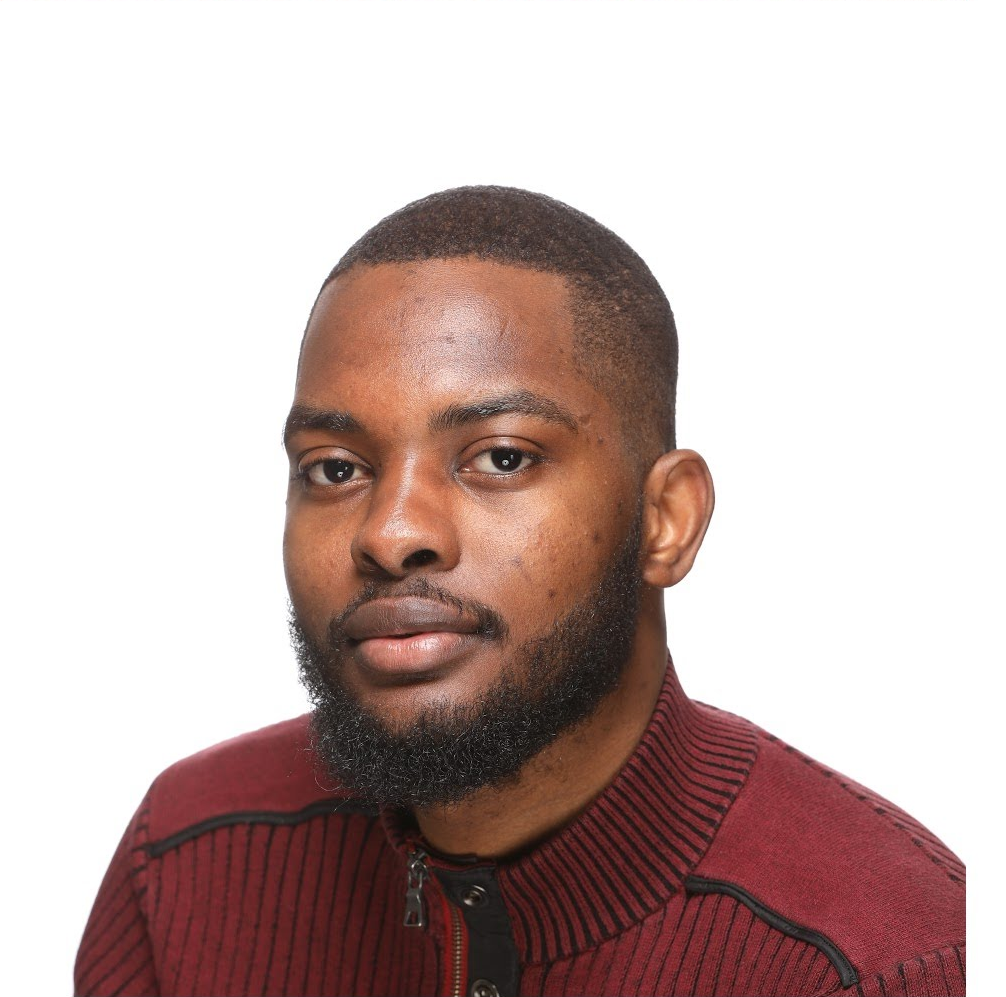
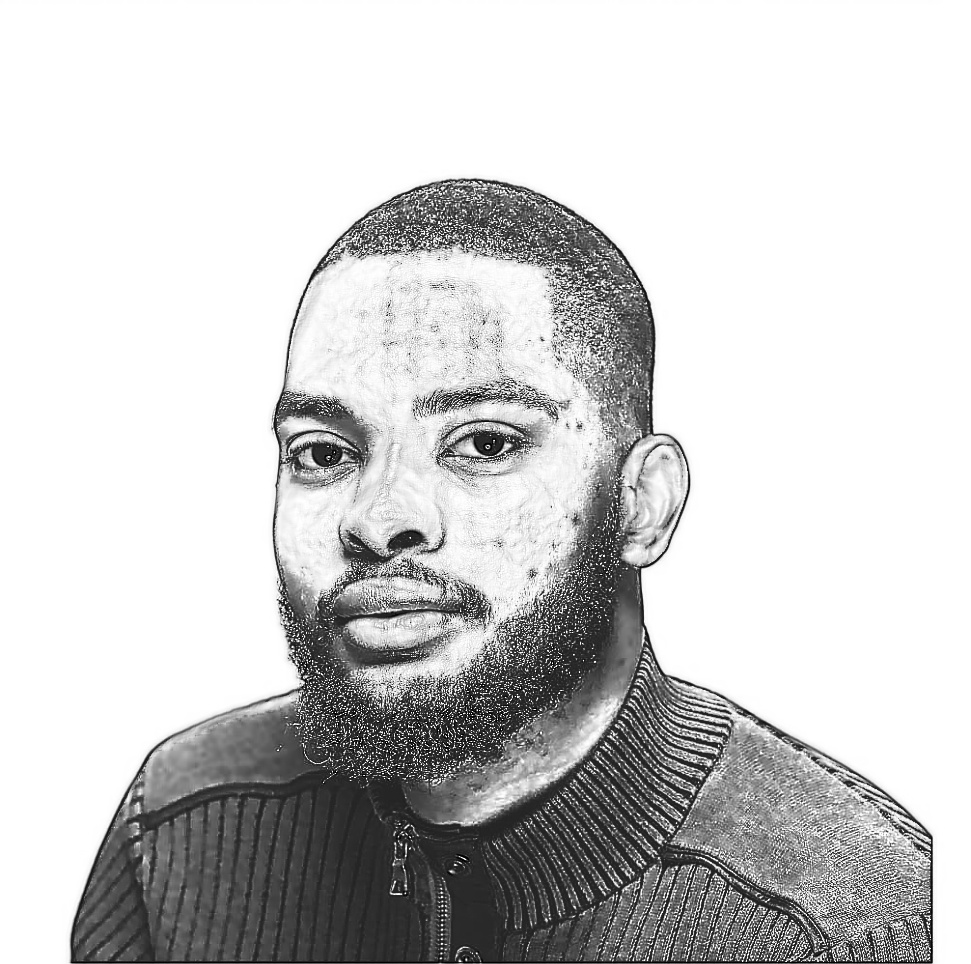
Updates to index.html

diff --git a/frontend/index.html b/frontend/index.html
@@ -58,7 +58,7 @@
             
             <p>and this page has been viewed <a id="counter"></a> times :) </p> 
             <ul class="social">
-               <!--<li><a href="https://Shafi-u.com"><i class="fa fa-external-link"></i></a></li>-->
+               <!--<li><a href="https://shafi-u.de"><i class="fa fa-external-link"></i></a></li>-->
                <li><a href="https://linkedin.com/in/shafi-u"><i class="fa fa-linkedin"></i></a></li>
                <li><a href="https://instagram.com/balsd_"><i class="fa fa-instagram"></i></a></li>
                <li><a href="https://github.com/shafi-u"><i class="fa fa-github"></i></a></li>
@@ -81,7 +81,7 @@
 
          <div class="three columns">
 
-            <img class="profile-pic"  src="images/Shafi-u.png" alt="" />
+            <img class="profile-pic"  src="images/me-u.png" alt="" />
 
          </div>
 
